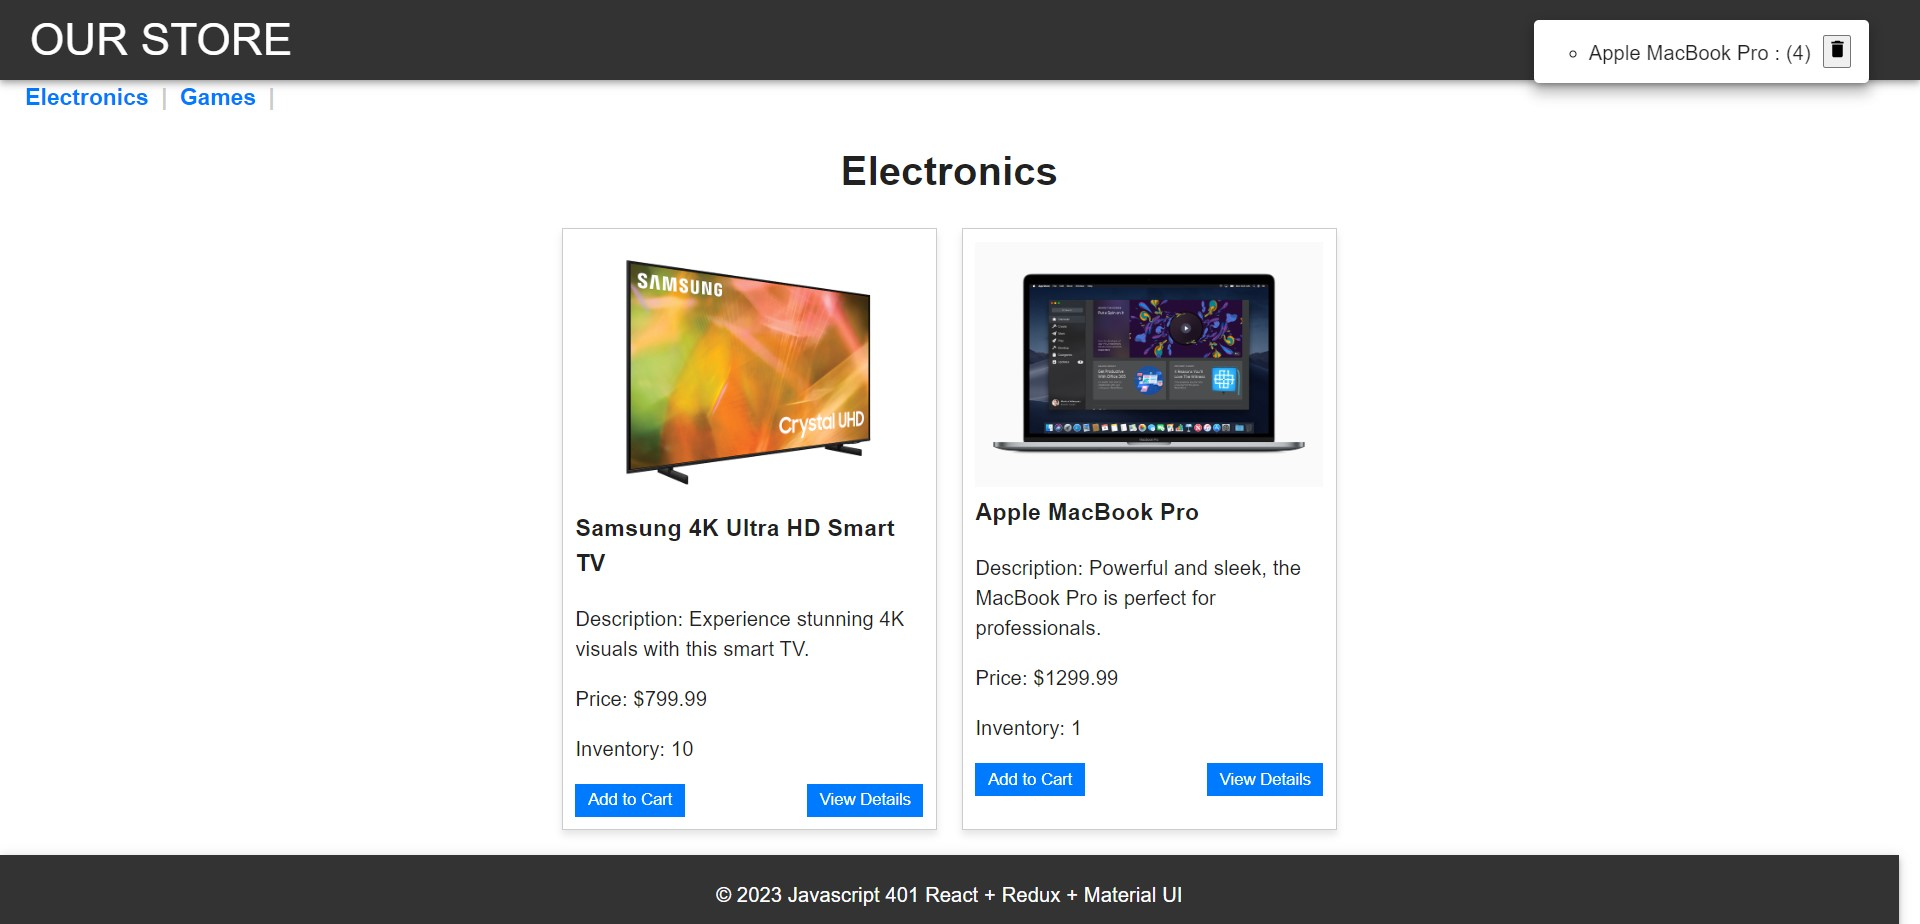
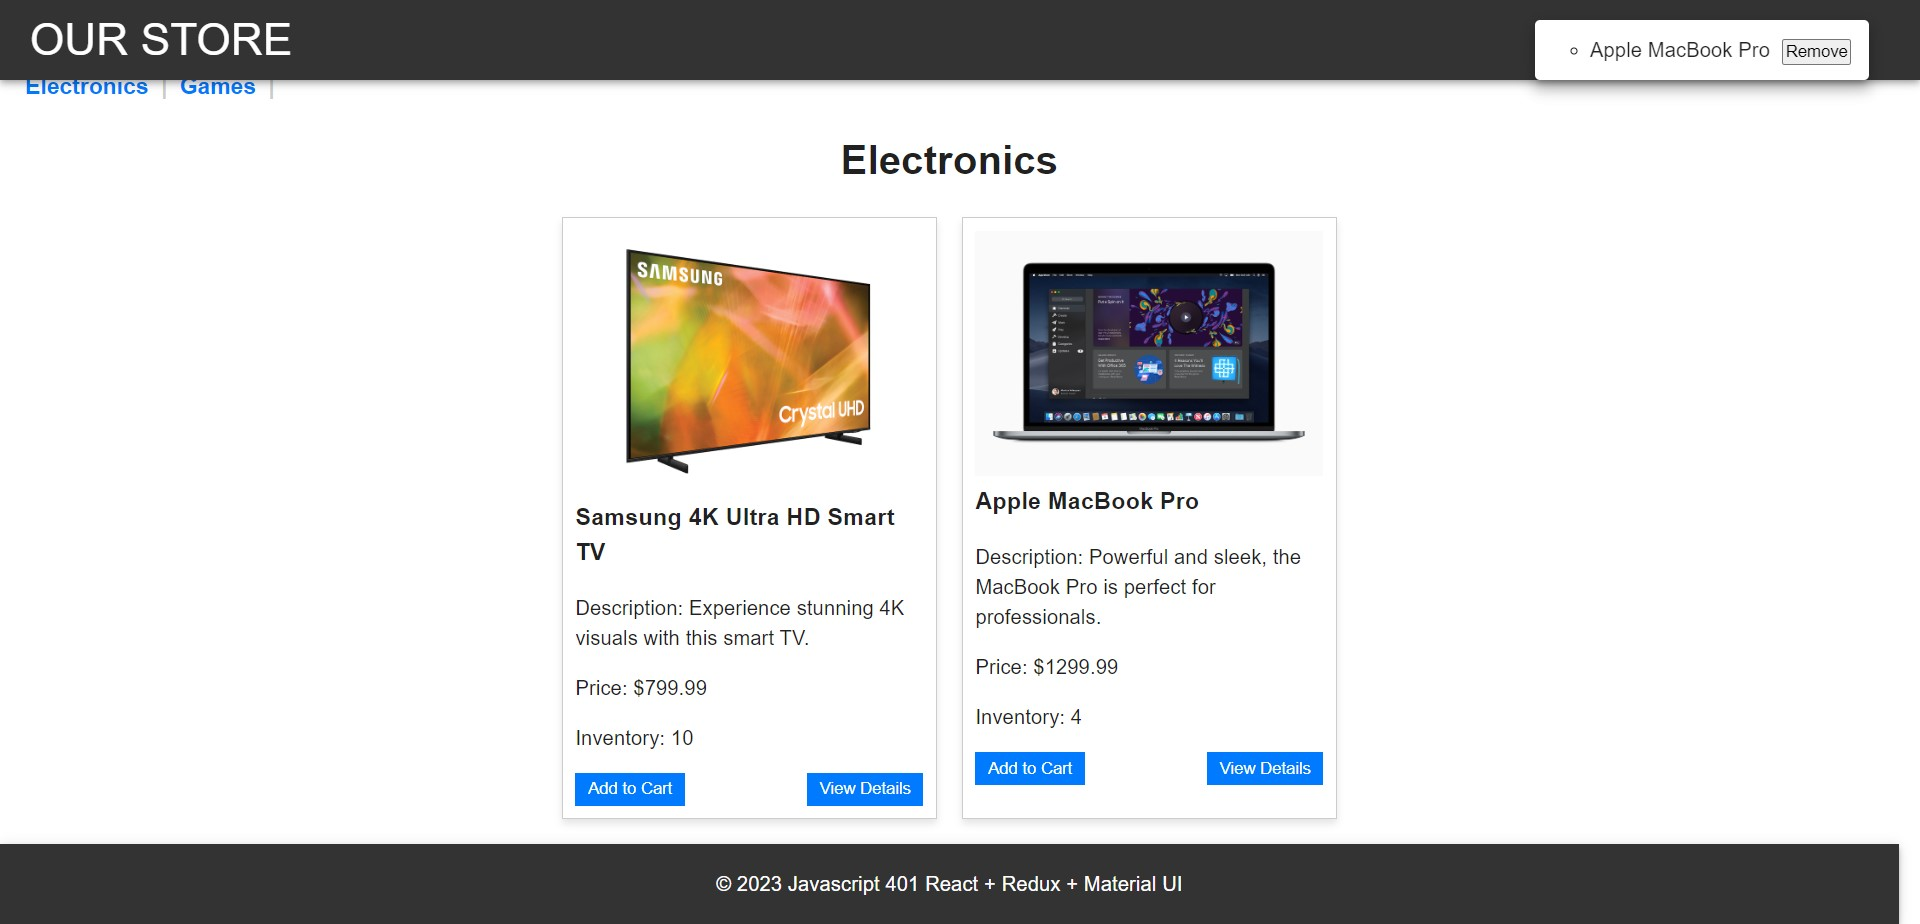
update5

diff --git a/vite-project/src/assets/components/SimpleCart/simplecart.jsx b/vite-project/src/assets/components/SimpleCart/simplecart.jsx
@@ -1,16 +1,8 @@
-import { useSelector, useDispatch } from 'react-redux';
-import { removeFromCart } from '../../store/cart';
-import { increaseInventory } from '../../store/products';
-import DeleteOutlinedIcon from '@mui/icons-material/Delete'; 
+import { useSelector } from 'react-redux';
 
 const SimpleCart = () => {
   const cartItems = useSelector((state) => state.cart.cartItems);
-  const dispatch = useDispatch();
 
-  const handleRemoveFromCart = (itemId) => {
-    dispatch(removeFromCart(itemId));
-    dispatch(increaseInventory(itemId));
-  };
 
   return (
     <div>
@@ -18,9 +10,9 @@ const SimpleCart = () => {
         {cartItems.length > 0 ? (
           cartItems.map((item) => (
             <li style={{ marginRight: '10px' }} key={item.id}>
-              {item.name} : ({item.quantity})
-              <button style={{ padding: '1px' , marginLeft:'10px'}} onClick={() => handleRemoveFromCart(item.id)}>
-                <DeleteOutlinedIcon style={{  fontSize: '17px'}} /> 
+              {item.name} ({item.quantity})
+              <button style={{ padding: '1px' , marginLeft:'10px'}}>
+            Remove
               </button>
             </li>
           ))

diff --git a/vite-project/READMELAB37.md b/vite-project/READMELAB37.md
@@ -21,7 +21,6 @@ This is an online store application built with React and Redux, featuring catego
 
 - State includes an array of products in the cart.
 - An action adds a selected item to the cart.
-- When the item is empty from the store it removes the item from the products!
 
 ## Application Architecture
 
@@ -37,7 +36,6 @@ This is an online store application built with React and Redux, featuring catego
 - As a user, I can choose from products and add them to my shopping cart.
 - As a user, I can see the products in my cart in a list on the side of the page.
 - As a user, I can change the quantity of items in my cart.
-- As a user, I can remove items from my shopping cart.
 
 ## Application Flow
 
@@ -45,8 +43,7 @@ This is an online store application built with React and Redux, featuring catego
 2. Chooses a category and sees a list of products.
 3. Clicks "Add to Cart" on any product.
 4. Sees a list of all products in the <SimpleCart /> side menu.
-5. Clicks the delete button on an item to remove it.
-6. The cart total in the header updates.
+5. The cart total in the header updates.
 
 ## How to Run
 
@@ -55,6 +52,4 @@ This is an online store application built with React and Redux, featuring catego
 
 ## Pictures as testing
 ![lab37](./lab37.jpg)
-![lab37](./lab371.jpg)
 ![lab37](./lab372.jpg)
-
